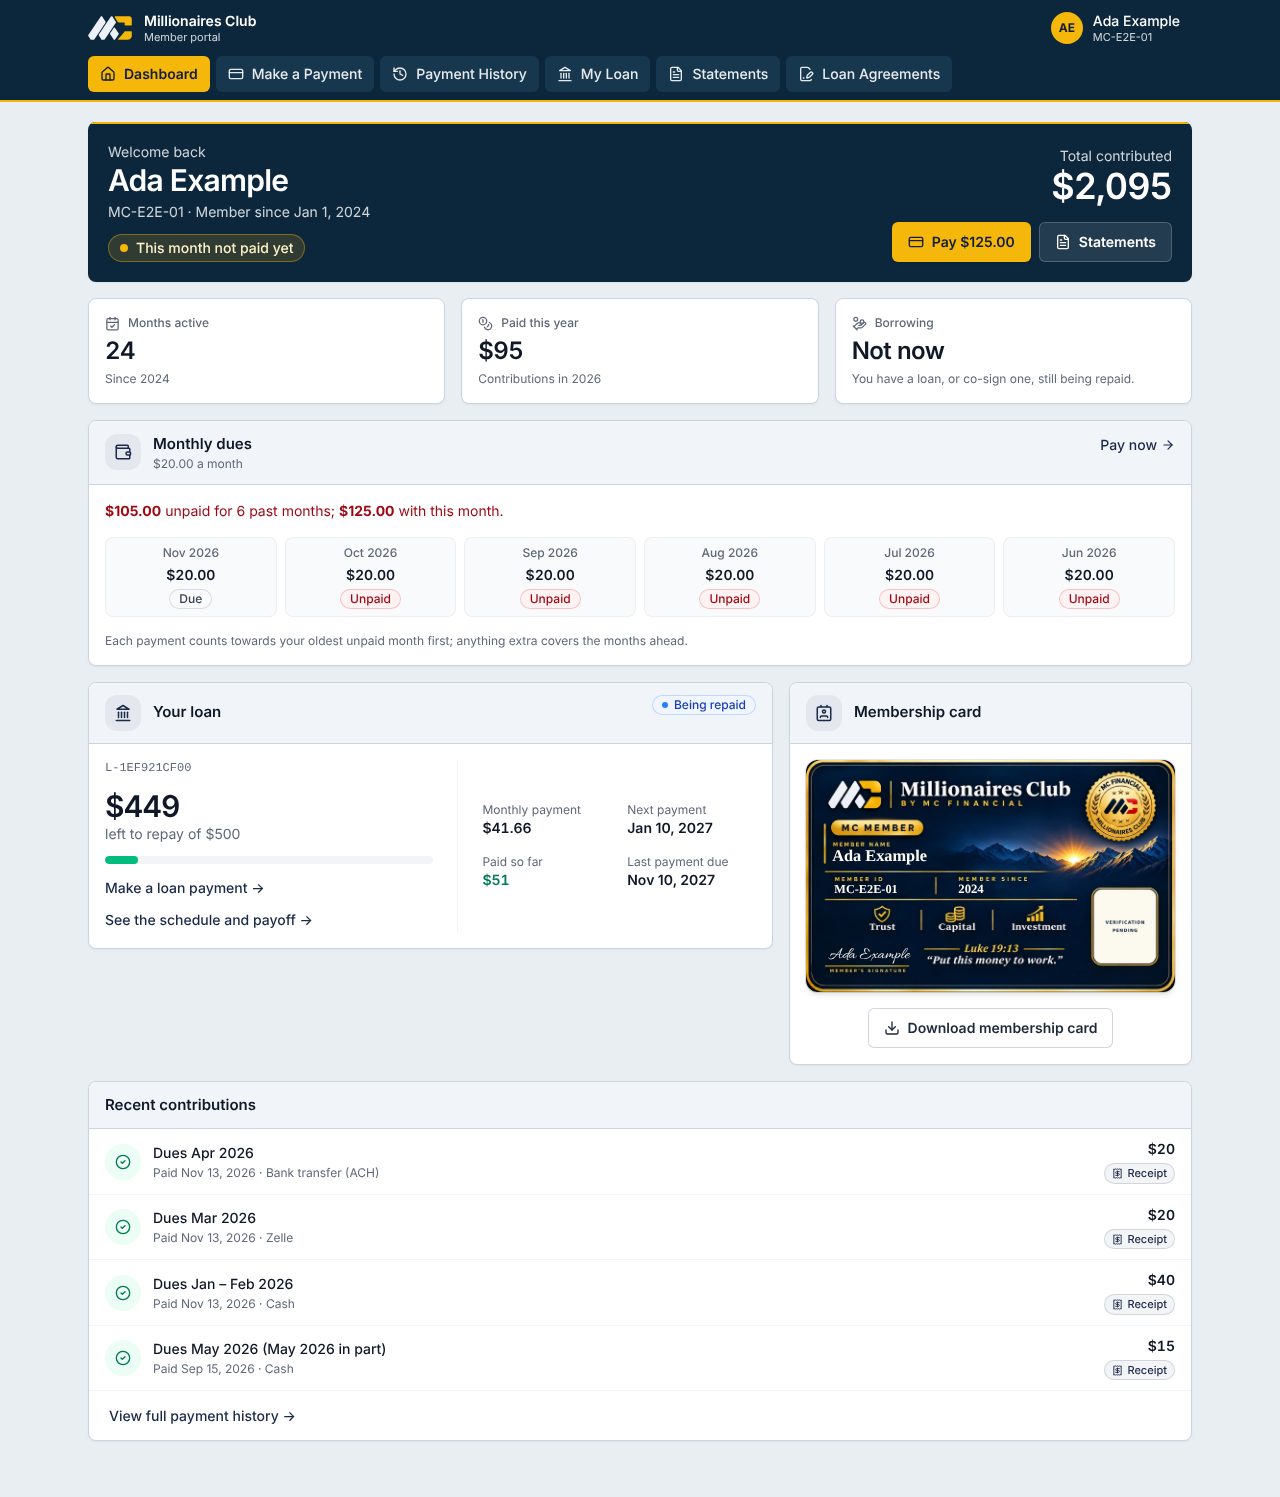
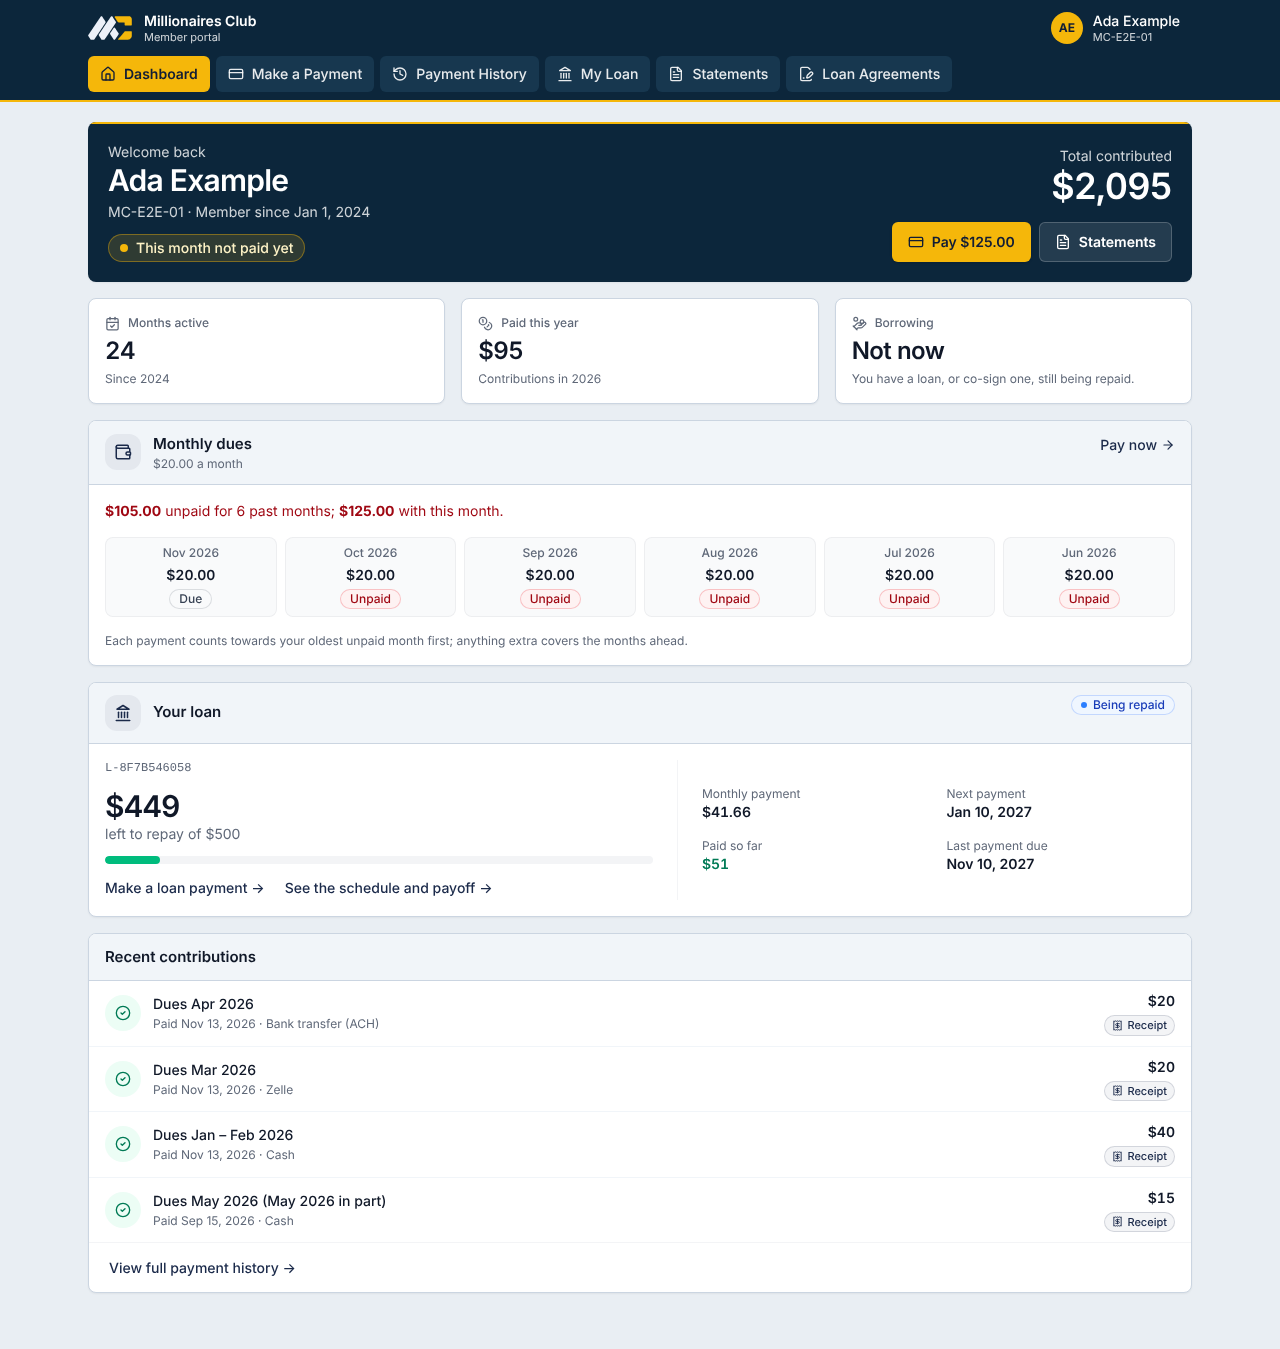
Member portal: the membership card lives under the account menu
The card moves off Home to its own page, Membership card (/portal/card),
opened from the account menu (the initials, top right): the preview drawn
as it downloads, the PNG download, and Apple Wallet once set up. A member
without a card sees why. Home is back to the loan at full width.

Browser tests: the card download test uses the new page, the page-load
checks include it, and the member test reaches it through the menu.

Claude-Session: https://claude.ai/code/session_01VQjKCXC3v9KDw22CUs3t6A

diff --git a/src/app/portal/(portal)/dashboard/page.tsx b/src/app/portal/(portal)/dashboard/page.tsx
@@ -1,11 +1,10 @@
 'use client'
 import { useEffect, useState } from 'react'
 import Link from 'next/link'
-import { ArrowRight, CalendarCheck, CircleCheck, Coins, CreditCard, FileText, HandCoins, Contact, Landmark, Receipt, Undo2, Wallet } from 'lucide-react'
+import { ArrowRight, CalendarCheck, CircleCheck, Coins, CreditCard, FileText, HandCoins, Landmark, Receipt, Undo2, Wallet } from 'lucide-react'
 import { eligibilityText, fmt$, fmtDate } from '@/lib/utils'
 import { cents, formatUSD } from '@/lib/money'
 import { periodLabel } from '@/modules/contributions/dues'
-import MembershipCardDownload, { MembershipCardPreview } from '@/components/portal/MembershipCardDownload'
 import type { DuesData } from '@/components/contributions/DuesPanel'
 import { Empty, PageSkeleton, Panel, Pill, Progress, Row, Rows, Stat, button, surface, type Tone } from '@/components/portal/kit'
 import { cn } from '@/lib/utils'
@@ -55,8 +54,6 @@ export default function PortalDashboard() {
   // What is owed in dues up to this month: one tap pays it, the amount already filled in.
   const owedCents = cents(dues ? dues.obligations.filter((o) => o.period <= dues.currentPeriod).reduce((sum, o) => sum + o.remainingCents, 0) : 0)
   const payDuesHref = owedCents > 0 ? `/portal/pay?for=dues&amount=${(owedCents / 100).toFixed(2)}` : '/portal/pay'
-  const cardName = member.legalName?.trim()
-  const hasCard = member.status === 'Active' && !!cardName && Number.isFinite(joinYear)
 
   return (
     <div className="space-y-4">
@@ -130,11 +127,10 @@ export default function PortalDashboard() {
         </Panel>
       )}
 
-      <div className={cn('grid items-start gap-4', hasCard && 'lg:grid-cols-[minmax(0,1.7fr)_minmax(0,1fr)]')}>
       <Panel title="Your loan" icon={Landmark}
         action={hasLoan && activeLoan.overdue ? <Pill tone="red" dot>Overdue</Pill> : hasLoan ? <Pill tone="blue" dot>Being repaid</Pill> : undefined}>
         {hasLoan ? (
-          <div className={cn('grid gap-6', hasCard ? 'md:grid-cols-[1.1fr_1fr] lg:grid-cols-1 xl:grid-cols-[1.1fr_1fr]' : 'md:grid-cols-[1.1fr_1fr]')}>
+          <div className="grid gap-6 md:grid-cols-[1.1fr_1fr]">
             <div className="space-y-3">
               <p className="font-mono text-xs text-gray-500">{activeLoan.loanId}</p>
               <div>
@@ -147,8 +143,7 @@ export default function PortalDashboard() {
                 <Link href="/portal/loan" className={button.link}>See the schedule and payoff →</Link>
               </div>
             </div>
-            <dl className={cn('grid grid-cols-2 content-center gap-x-4 gap-y-4 border-t border-gray-100 pt-5 text-sm md:border-l md:border-t-0 md:pl-6 md:pt-0',
-              hasCard && 'lg:border-l-0 lg:border-t lg:pl-0 lg:pt-5 xl:border-l xl:border-t-0 xl:pl-6 xl:pt-0')}>
+            <dl className="grid grid-cols-2 content-center gap-x-4 gap-y-4 border-t border-gray-100 pt-5 text-sm md:border-l md:border-t-0 md:pl-6 md:pt-0">
               <div><dt className="text-xs text-gray-500">Monthly payment</dt><dd className="font-semibold text-gray-900 tabular-nums">{fmt$(activeLoan.monthlyDue)}</dd></div>
               <div><dt className="text-xs text-gray-500">Next payment</dt><dd className="font-semibold text-gray-900">{fmtDate(activeLoan.nextDueDate)}</dd></div>
               <div><dt className="text-xs text-gray-500">Paid so far</dt><dd className="font-semibold text-emerald-700 tabular-nums">{fmt$(activeLoan.totalPaid)}</dd></div>
@@ -161,21 +156,6 @@ export default function PortalDashboard() {
           </Empty>
         )}
       </Panel>
-
-      {hasCard && (
-        <Panel title="Membership card" icon={Contact}>
-          <div className="space-y-4">
-            <div className="mx-auto max-w-sm"><MembershipCardPreview fullName={cardName} memberId={member.id} joinYear={joinYear} /></div>
-            <div className="flex flex-wrap justify-center gap-2">
-              <MembershipCardDownload fullName={cardName} memberId={member.id} joinYear={joinYear} tone="light" />
-              {member.appleWalletAvailable && (
-                <a href="/api/portal/wallet" className={button.secondary}><Wallet size={16} aria-hidden /> Add to Apple Wallet</a>
-              )}
-            </div>
-          </div>
-        </Panel>
-      )}
-      </div>
 
       <section className={cn(surface, 'overflow-hidden')} aria-labelledby="recent">
         <div className="border-b border-workspace-border bg-workspace-header px-4 py-3 print:bg-white">

diff --git a/src/app/portal/(portal)/card/page.tsx b/src/app/portal/(portal)/card/page.tsx
@@ -1,0 +1,47 @@
+'use client'
+import { useEffect, useState } from 'react'
+import { Contact, Wallet } from 'lucide-react'
+import MembershipCardDownload, { MembershipCardPreview } from '@/components/portal/MembershipCardDownload'
+import { Empty, PageHeader, PageSkeleton, button, surface } from '@/components/portal/kit'
+import { cn } from '@/lib/utils'
+
+// The member's card, from the account menu: a preview drawn exactly as it
+// downloads, the PNG download, and Apple Wallet once the club has set it up.
+export default function PortalCard() {
+  const [member, setMember] = useState<any>(null)
+
+  useEffect(() => {
+    fetch('/api/portal/me').then(r => r.json()).then(setMember)
+  }, [])
+
+  if (!member) return <PageSkeleton />
+
+  const name = member.legalName?.trim()
+  // Join dates are stored as midnight UTC: read the year in UTC.
+  const joinYear = new Date(member.joinDate).getUTCFullYear()
+  const hasCard = member.status === 'Active' && !!name && Number.isFinite(joinYear)
+
+  return (
+    <div className="space-y-5">
+      <PageHeader title="Membership card" sub="Your Millionaires Club card, to save on your phone or print." />
+      <section className={cn(surface, 'p-4 sm:p-8')}>
+        {hasCard ? (
+          <div className="mx-auto max-w-xl space-y-5">
+            <MembershipCardPreview fullName={name} memberId={member.id} joinYear={joinYear} />
+            <div className="flex flex-wrap justify-center gap-2">
+              <MembershipCardDownload fullName={name} memberId={member.id} joinYear={joinYear} tone="light" />
+              {member.appleWalletAvailable && (
+                <a href="/api/portal/wallet" className={button.secondary}><Wallet size={16} aria-hidden /> Add to Apple Wallet</a>
+              )}
+            </div>
+            <p className="text-center text-xs text-gray-500">The download is a picture of your card (PNG). Keep it in your photos, or print it.</p>
+          </div>
+        ) : (
+          <Empty icon={Contact} title="No membership card yet">
+            Cards are for active members. If you think you should have one, please contact a club officer.
+          </Empty>
+        )}
+      </section>
+    </div>
+  )
+}

diff --git a/e2e/07-usability.spec.ts b/e2e/07-usability.spec.ts
@@ -168,7 +168,7 @@ test('phones: tapping a field does not zoom the page (16px text in fields)', asy
   await phone.close()
 })
 
-test('member: one tap from Home pays what is owed, and the loan schedule fits a phone', async ({ browser }) => {
+test('member: one tap from Home pays what is owed, the card is under the account, and the loan schedule fits a phone', async ({ browser }) => {
   const { page, errors, close } = await signedIn(browser, 'member', { width: 390, height: 844 })
   await page.goto('/portal/dashboard')
   // The welcome card offers to pay exactly what is owed, already filled in.
@@ -183,9 +183,13 @@ test('member: one tap from Home pays what is owed, and the loan schedule fits a 
   await page.getByRole('button', { name: /^This month/ }).click()
   await expect(page.getByLabel('Amount', { exact: true })).toHaveValue('20.00')
   await expect(page.getByRole('button', { name: /^This month/ })).toHaveAttribute('aria-pressed', 'true')
-  // The membership card shows on Home, as it will download.
+  // The membership card is in the account menu, shown as it will download.
   await page.goto('/portal/dashboard')
+  await page.getByRole('button', { name: 'Your account' }).click()
+  await page.getByRole('link', { name: 'Membership card' }).click()
+  await expect(page).toHaveURL(/\/portal\/card$/)
   await expect(page.getByRole('img', { name: /^Membership card for / })).toBeVisible()
+  await expect(page.getByRole('button', { name: 'Download membership card' })).toBeVisible()
   // On a phone the schedule is a list: every status visible, nothing off to the side.
   await page.goto('/portal/loan')
   const schedule = page.getByRole('list', { name: 'Repayment schedule' })

diff --git a/src/components/portal/PortalNav.tsx b/src/components/portal/PortalNav.tsx
@@ -3,7 +3,7 @@ import Link from 'next/link'
 import { usePathname } from 'next/navigation'
 import { signOut } from 'next-auth/react'
 import { useEffect, useRef, useState } from 'react'
-import { CreditCard, FileSignature, FileText, History, Home, Landmark, LogOut, MoreHorizontal, type LucideIcon } from 'lucide-react'
+import { Contact, CreditCard, FileSignature, FileText, History, Home, Landmark, LogOut, MoreHorizontal, type LucideIcon } from 'lucide-react'
 import { cn } from '@/lib/utils'
 import { APP_NAME } from '@/lib/brand'
 
@@ -64,6 +64,10 @@ function AccountMenu({ user }: { user: { name?: string; memberId?: string } }) {
             <p className="text-sm font-semibold text-gray-900">{user.name}</p>
             <p className="text-xs text-gray-500">Member ID {user.memberId}</p>
           </div>
+          <Link href="/portal/card" onClick={() => setOpen(false)}
+            className="flex w-full items-center gap-2.5 border-b border-gray-100 px-4 py-3 text-sm font-medium text-gray-700 hover:bg-gray-50">
+            <Contact size={16} aria-hidden /> Membership card
+          </Link>
           <button
             type="button" onClick={() => signOut({ callbackUrl: '/portal/login' })}
             className="flex w-full items-center gap-2.5 px-4 py-3 text-sm font-medium text-gray-700 hover:bg-gray-50"

diff --git a/e2e/01-pages.spec.ts b/e2e/01-pages.spec.ts
@@ -49,7 +49,7 @@ test('phone layouts fit the screen', async ({ browser }) => {
 
 test('the member portal loads cleanly', async ({ browser }) => {
   const { page, errors, close } = await signedIn(browser, 'member', { width: 390, height: 844 })
-  for (const path of ['/portal/dashboard', '/portal/history', '/portal/pay', '/portal/loan', '/portal/statements', '/portal/agreements']) {
+  for (const path of ['/portal/dashboard', '/portal/history', '/portal/pay', '/portal/loan', '/portal/statements', '/portal/agreements', '/portal/card']) {
     await page.goto(path)
     await expect(page.locator('h1, h2').first(), path).toBeVisible()
     await expectNoOverflow(page)
@@ -61,7 +61,7 @@ test('the member portal loads cleanly', async ({ browser }) => {
 test('an active member downloads their personalized membership card', async ({ browser }) => {
   const { page, close } = await signedIn(browser, 'member')
   try {
-    await page.goto('/portal/dashboard')
+    await page.goto('/portal/card')
     const cardText = await page.evaluateHandle(() => {
       const entries: { text: string; font: string }[] = []
       const fillText = CanvasRenderingContext2D.prototype.fillText
